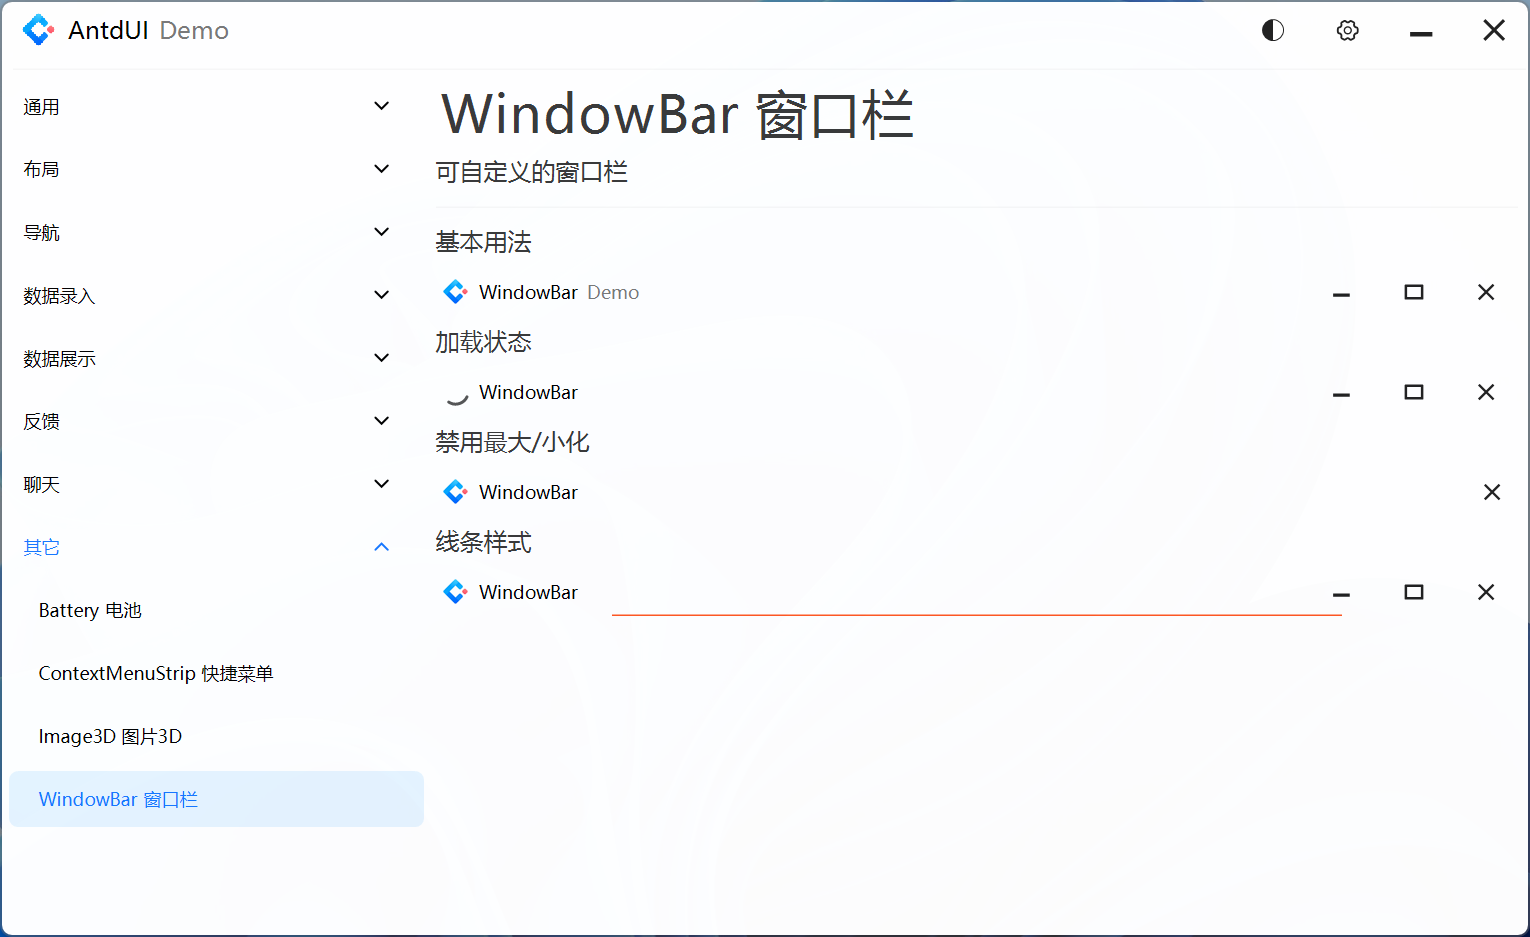
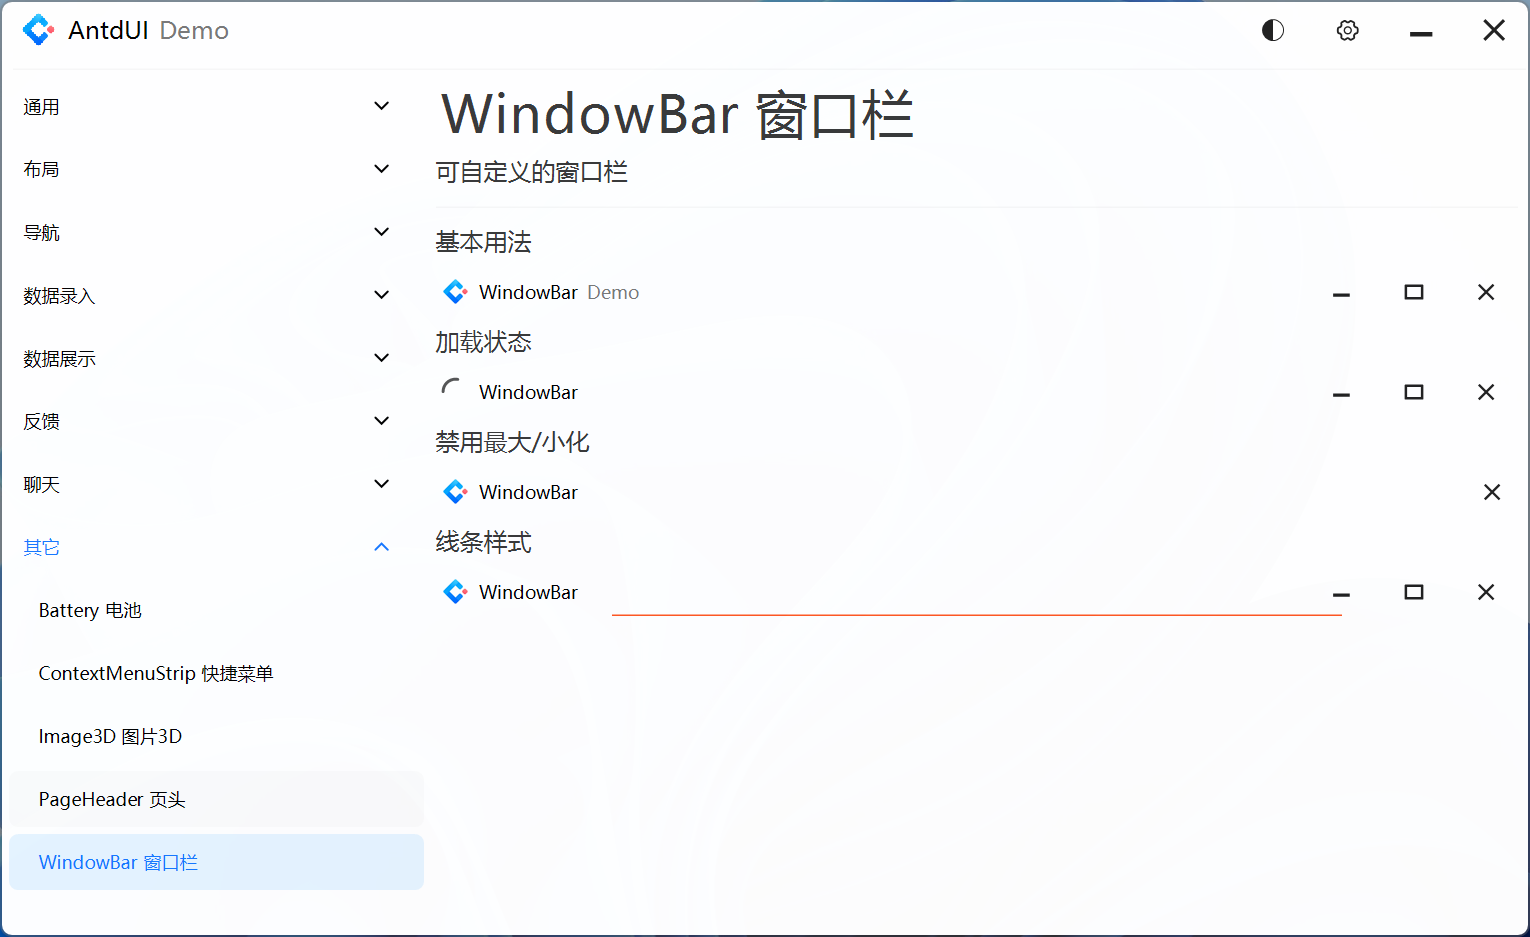
新增PageHeader

Changed region(s): [[0.0, 0.8356, 0.2765, 0.9594], [0.2765, 0.4023, 0.3072, 0.4333]]

diff --git a/Views/PageHeaderDemo.Designer.cs b/Views/PageHeaderDemo.Designer.cs
@@ -1,0 +1,236 @@
+namespace AntdUIDemo.Views
+{
+    partial class PageHeaderDemo
+    {
+        /// <summary> 
+        /// 必需的设计器变量。
+        /// </summary>
+        private System.ComponentModel.IContainer components = null;
+
+        /// <summary> 
+        /// 清理所有正在使用的资源。
+        /// </summary>
+        /// <param name="disposing">如果应释放托管资源，为 true；否则为 false。</param>
+        protected override void Dispose(bool disposing)
+        {
+            if (disposing && (components != null))
+            {
+                components.Dispose();
+            }
+            base.Dispose(disposing);
+        }
+
+        #region 组件设计器生成的代码
+
+        /// <summary> 
+        /// 设计器支持所需的方法 - 不要修改
+        /// 使用代码编辑器修改此方法的内容。
+        /// </summary>
+        private void InitializeComponent()
+        {
+            this.stackPanel1 = new AntdUI.StackPanel();
+            this.label3 = new AntdUI.Label();
+            this.divider1 = new AntdUI.Divider();
+            this.label2 = new AntdUI.Label();
+            this.label1 = new AntdUI.Label();
+            this.PageHeader = new AntdUI.PageHeader();
+            this.label4 = new AntdUI.Label();
+            this.pageHeader1 = new AntdUI.PageHeader();
+            this.label5 = new AntdUI.Label();
+            this.pageHeader2 = new AntdUI.PageHeader();
+            this.label7 = new AntdUI.Label();
+            this.pageHeader3 = new AntdUI.PageHeader();
+            this.label6 = new AntdUI.Label();
+            this.pageHeader_click = new AntdUI.PageHeader();
+            this.stackPanel1.SuspendLayout();
+            this.SuspendLayout();
+            // 
+            // stackPanel1
+            // 
+            this.stackPanel1.Controls.Add(this.pageHeader_click);
+            this.stackPanel1.Controls.Add(this.label6);
+            this.stackPanel1.Controls.Add(this.pageHeader3);
+            this.stackPanel1.Controls.Add(this.label7);
+            this.stackPanel1.Controls.Add(this.pageHeader2);
+            this.stackPanel1.Controls.Add(this.label5);
+            this.stackPanel1.Controls.Add(this.pageHeader1);
+            this.stackPanel1.Controls.Add(this.label4);
+            this.stackPanel1.Controls.Add(this.PageHeader);
+            this.stackPanel1.Controls.Add(this.label3);
+            this.stackPanel1.Controls.Add(this.divider1);
+            this.stackPanel1.Controls.Add(this.label2);
+            this.stackPanel1.Controls.Add(this.label1);
+            this.stackPanel1.Dock = System.Windows.Forms.DockStyle.Fill;
+            this.stackPanel1.Location = new System.Drawing.Point(0, 0);
+            this.stackPanel1.Name = "stackPanel1";
+            this.stackPanel1.Size = new System.Drawing.Size(700, 497);
+            this.stackPanel1.TabIndex = 0;
+            this.stackPanel1.Text = "stackPanel1";
+            this.stackPanel1.Vertical = true;
+            // 
+            // label3
+            // 
+            this.label3.Font = new System.Drawing.Font("Microsoft YaHei UI", 12F, System.Drawing.FontStyle.Regular, System.Drawing.GraphicsUnit.Point, ((byte)(134)));
+            this.label3.Location = new System.Drawing.Point(3, 97);
+            this.label3.Name = "label3";
+            this.label3.Size = new System.Drawing.Size(694, 24);
+            this.label3.TabIndex = 25;
+            this.label3.Text = "基本用法";
+            // 
+            // divider1
+            // 
+            this.divider1.Location = new System.Drawing.Point(3, 79);
+            this.divider1.Name = "divider1";
+            this.divider1.Size = new System.Drawing.Size(694, 12);
+            this.divider1.TabIndex = 24;
+            // 
+            // label2
+            // 
+            this.label2.Font = new System.Drawing.Font("Microsoft YaHei UI", 12F, System.Drawing.FontStyle.Regular, System.Drawing.GraphicsUnit.Point, ((byte)(134)));
+            this.label2.Location = new System.Drawing.Point(3, 49);
+            this.label2.Name = "label2";
+            this.label2.Size = new System.Drawing.Size(694, 24);
+            this.label2.TabIndex = 23;
+            this.label2.Text = "替代WindowBar的标题栏。";
+            // 
+            // label1
+            // 
+            this.label1.Font = new System.Drawing.Font("Microsoft YaHei UI", 26.25F, System.Drawing.FontStyle.Regular, System.Drawing.GraphicsUnit.Point, ((byte)(134)));
+            this.label1.Location = new System.Drawing.Point(3, 3);
+            this.label1.Name = "label1";
+            this.label1.Size = new System.Drawing.Size(694, 40);
+            this.label1.TabIndex = 22;
+            this.label1.Text = "PageHeader 页头";
+            // 
+            // PageHeader
+            // 
+            this.PageHeader.Font = new System.Drawing.Font("Microsoft YaHei UI", 9F);
+            this.PageHeader.Icon = global::AntdUIDemo.Properties.Resources.logo;
+            this.PageHeader.Location = new System.Drawing.Point(3, 127);
+            this.PageHeader.Name = "PageHeader";
+            this.PageHeader.ShowButton = true;
+            this.PageHeader.ShowIcon = true;
+            this.PageHeader.Size = new System.Drawing.Size(694, 32);
+            this.PageHeader.SubText = "Demo";
+            this.PageHeader.TabIndex = 26;
+            this.PageHeader.Text = "PageHeader";
+            // 
+            // label4
+            // 
+            this.label4.Font = new System.Drawing.Font("Microsoft YaHei UI", 12F, System.Drawing.FontStyle.Regular, System.Drawing.GraphicsUnit.Point, ((byte)(134)));
+            this.label4.Location = new System.Drawing.Point(3, 165);
+            this.label4.Name = "label4";
+            this.label4.Size = new System.Drawing.Size(694, 24);
+            this.label4.TabIndex = 27;
+            this.label4.Text = "加载状态";
+            // 
+            // pageHeader1
+            // 
+            this.pageHeader1.Font = new System.Drawing.Font("Microsoft YaHei UI", 9F);
+            this.pageHeader1.Icon = global::AntdUIDemo.Properties.Resources.logo;
+            this.pageHeader1.Loading = true;
+            this.pageHeader1.Location = new System.Drawing.Point(3, 195);
+            this.pageHeader1.Name = "pageHeader1";
+            this.pageHeader1.ShowButton = true;
+            this.pageHeader1.ShowIcon = true;
+            this.pageHeader1.Size = new System.Drawing.Size(694, 32);
+            this.pageHeader1.SubText = "Demo";
+            this.pageHeader1.TabIndex = 28;
+            this.pageHeader1.Text = "PageHeader";
+            // 
+            // label5
+            // 
+            this.label5.Font = new System.Drawing.Font("Microsoft YaHei UI", 12F, System.Drawing.FontStyle.Regular, System.Drawing.GraphicsUnit.Point, ((byte)(134)));
+            this.label5.Location = new System.Drawing.Point(3, 233);
+            this.label5.Name = "label5";
+            this.label5.Size = new System.Drawing.Size(694, 24);
+            this.label5.TabIndex = 71;
+            this.label5.Text = "无按钮";
+            // 
+            // pageHeader2
+            // 
+            this.pageHeader2.Font = new System.Drawing.Font("Microsoft YaHei UI", 9F);
+            this.pageHeader2.Icon = global::AntdUIDemo.Properties.Resources.logo;
+            this.pageHeader2.Location = new System.Drawing.Point(3, 263);
+            this.pageHeader2.Name = "pageHeader2";
+            this.pageHeader2.ShowIcon = true;
+            this.pageHeader2.Size = new System.Drawing.Size(694, 32);
+            this.pageHeader2.SubText = "Demo";
+            this.pageHeader2.TabIndex = 72;
+            this.pageHeader2.Text = "PageHeader";
+            // 
+            // label7
+            // 
+            this.label7.Font = new System.Drawing.Font("Microsoft YaHei UI", 12F, System.Drawing.FontStyle.Regular, System.Drawing.GraphicsUnit.Point, ((byte)(134)));
+            this.label7.Location = new System.Drawing.Point(3, 301);
+            this.label7.Name = "label7";
+            this.label7.Size = new System.Drawing.Size(694, 24);
+            this.label7.TabIndex = 74;
+            this.label7.Text = "线条";
+            // 
+            // pageHeader3
+            // 
+            this.pageHeader3.DividerColor = System.Drawing.Color.FromArgb(((int)(((byte)(255)))), ((int)(((byte)(87)))), ((int)(((byte)(34)))));
+            this.pageHeader3.DividerMargin = 120;
+            this.pageHeader3.DividerShow = true;
+            this.pageHeader3.Font = new System.Drawing.Font("Microsoft YaHei UI", 9F);
+            this.pageHeader3.Icon = global::AntdUIDemo.Properties.Resources.logo;
+            this.pageHeader3.Location = new System.Drawing.Point(3, 331);
+            this.pageHeader3.Name = "pageHeader3";
+            this.pageHeader3.ShowIcon = true;
+            this.pageHeader3.Size = new System.Drawing.Size(694, 32);
+            this.pageHeader3.SubText = "Demo";
+            this.pageHeader3.TabIndex = 75;
+            this.pageHeader3.Text = "PageHeader";
+            // 
+            // label6
+            // 
+            this.label6.Font = new System.Drawing.Font("Microsoft YaHei UI", 12F, System.Drawing.FontStyle.Regular, System.Drawing.GraphicsUnit.Point, ((byte)(134)));
+            this.label6.Location = new System.Drawing.Point(3, 369);
+            this.label6.Name = "label6";
+            this.label6.Size = new System.Drawing.Size(694, 24);
+            this.label6.TabIndex = 76;
+            this.label6.Text = "返回";
+            // 
+            // pageHeader_click
+            // 
+            this.pageHeader_click.Font = new System.Drawing.Font("Microsoft YaHei UI", 9F);
+            this.pageHeader_click.Icon = global::AntdUIDemo.Properties.Resources.logo;
+            this.pageHeader_click.Location = new System.Drawing.Point(3, 399);
+            this.pageHeader_click.Name = "pageHeader_click";
+            this.pageHeader_click.ShowBack = true;
+            this.pageHeader_click.ShowIcon = true;
+            this.pageHeader_click.Size = new System.Drawing.Size(694, 32);
+            this.pageHeader_click.SubText = "Demo";
+            this.pageHeader_click.TabIndex = 77;
+            this.pageHeader_click.Text = "PageHeader";
+            // 
+            // PageHeaderDemo
+            // 
+            this.AutoScaleMode = System.Windows.Forms.AutoScaleMode.Inherit;
+            this.Controls.Add(this.stackPanel1);
+            this.Name = "PageHeaderDemo";
+            this.Size = new System.Drawing.Size(700, 497);
+            this.stackPanel1.ResumeLayout(false);
+            this.ResumeLayout(false);
+
+        }
+
+        #endregion
+
+        private AntdUI.StackPanel stackPanel1;
+        private AntdUI.Label label3;
+        private AntdUI.Divider divider1;
+        private AntdUI.Label label2;
+        private AntdUI.Label label1;
+        private AntdUI.PageHeader PageHeader;
+        private AntdUI.PageHeader pageHeader1;
+        private AntdUI.Label label4;
+        private AntdUI.PageHeader pageHeader2;
+        private AntdUI.Label label5;
+        private AntdUI.PageHeader pageHeader3;
+        private AntdUI.Label label7;
+        private AntdUI.PageHeader pageHeader_click;
+        private AntdUI.Label label6;
+    }
+}

diff --git a/Views/PageHeaderDemo.cs b/Views/PageHeaderDemo.cs
@@ -1,0 +1,33 @@
+using System;
+using System.Collections.Generic;
+using System.ComponentModel;
+using System.Data;
+using System.Drawing;
+using System.Linq;
+using System.Text;
+using System.Threading.Tasks;
+using System.Windows.Forms;
+
+namespace AntdUIDemo.Views
+{
+    public partial class PageHeaderDemo : UserControl
+    {
+        private AntdUI.Window window;
+        public PageHeaderDemo(AntdUI.Window _window)
+        {
+            window = _window;
+            InitializeComponent();
+            BindEventHandler();
+        }
+
+        private void BindEventHandler()
+        {
+            pageHeader_click.Click += PageHeader_click_Click;
+        }
+
+        private void PageHeader_click_Click(object sender, EventArgs e)
+        {
+            AntdUI.Message.info(window, "返回到上一层", autoClose: 1);
+        }
+    }
+}

diff --git a/Models/DataUtil.cs b/Models/DataUtil.cs
@@ -91,6 +91,7 @@ namespace AntdUIDemo.Models
                 new MenuItems { Text = "Battery 电池", Tag = "Battery" },
                 new MenuItems { Text = "ContextMenuStrip 快捷菜单", Tag = "ContextMenuStrip" },
                 new MenuItems { Text = "Image3D 图片3D", Tag = "Image3D" },
+                new MenuItems { Text = "PageHeader 页头", Tag= "PageHeader"},
                 new MenuItems { Text = "WindowBar 窗口栏", Tag = "WindowBar" }
             }
         }

diff --git a/MainWindow.cs b/MainWindow.cs
@@ -299,6 +299,9 @@ namespace AntdUIDemo
                 case "Image3D":
                     control = new Image3DDemo();
                     break;
+                case "PageHeader":
+                    control = new PageHeaderDemo(this);
+                    break;
                 case "WindowBar":
                     control = new WindowBarDemo();
                     break;

diff --git a/README.md b/README.md
@@ -151,5 +151,7 @@
 ![ContextMenuStrip](assets/screenshots/ContextMenuStrip.png)
 #### Image3D 图片3D
 ![Image3D](assets/screenshots/Image3D.png)
+### PageHeader 页头
+![PageHeader](assets/screenshots/PageHeader.png)
 #### WindowBar 窗口栏
 ![WindowBar](assets/screenshots/WindowBar.png)
